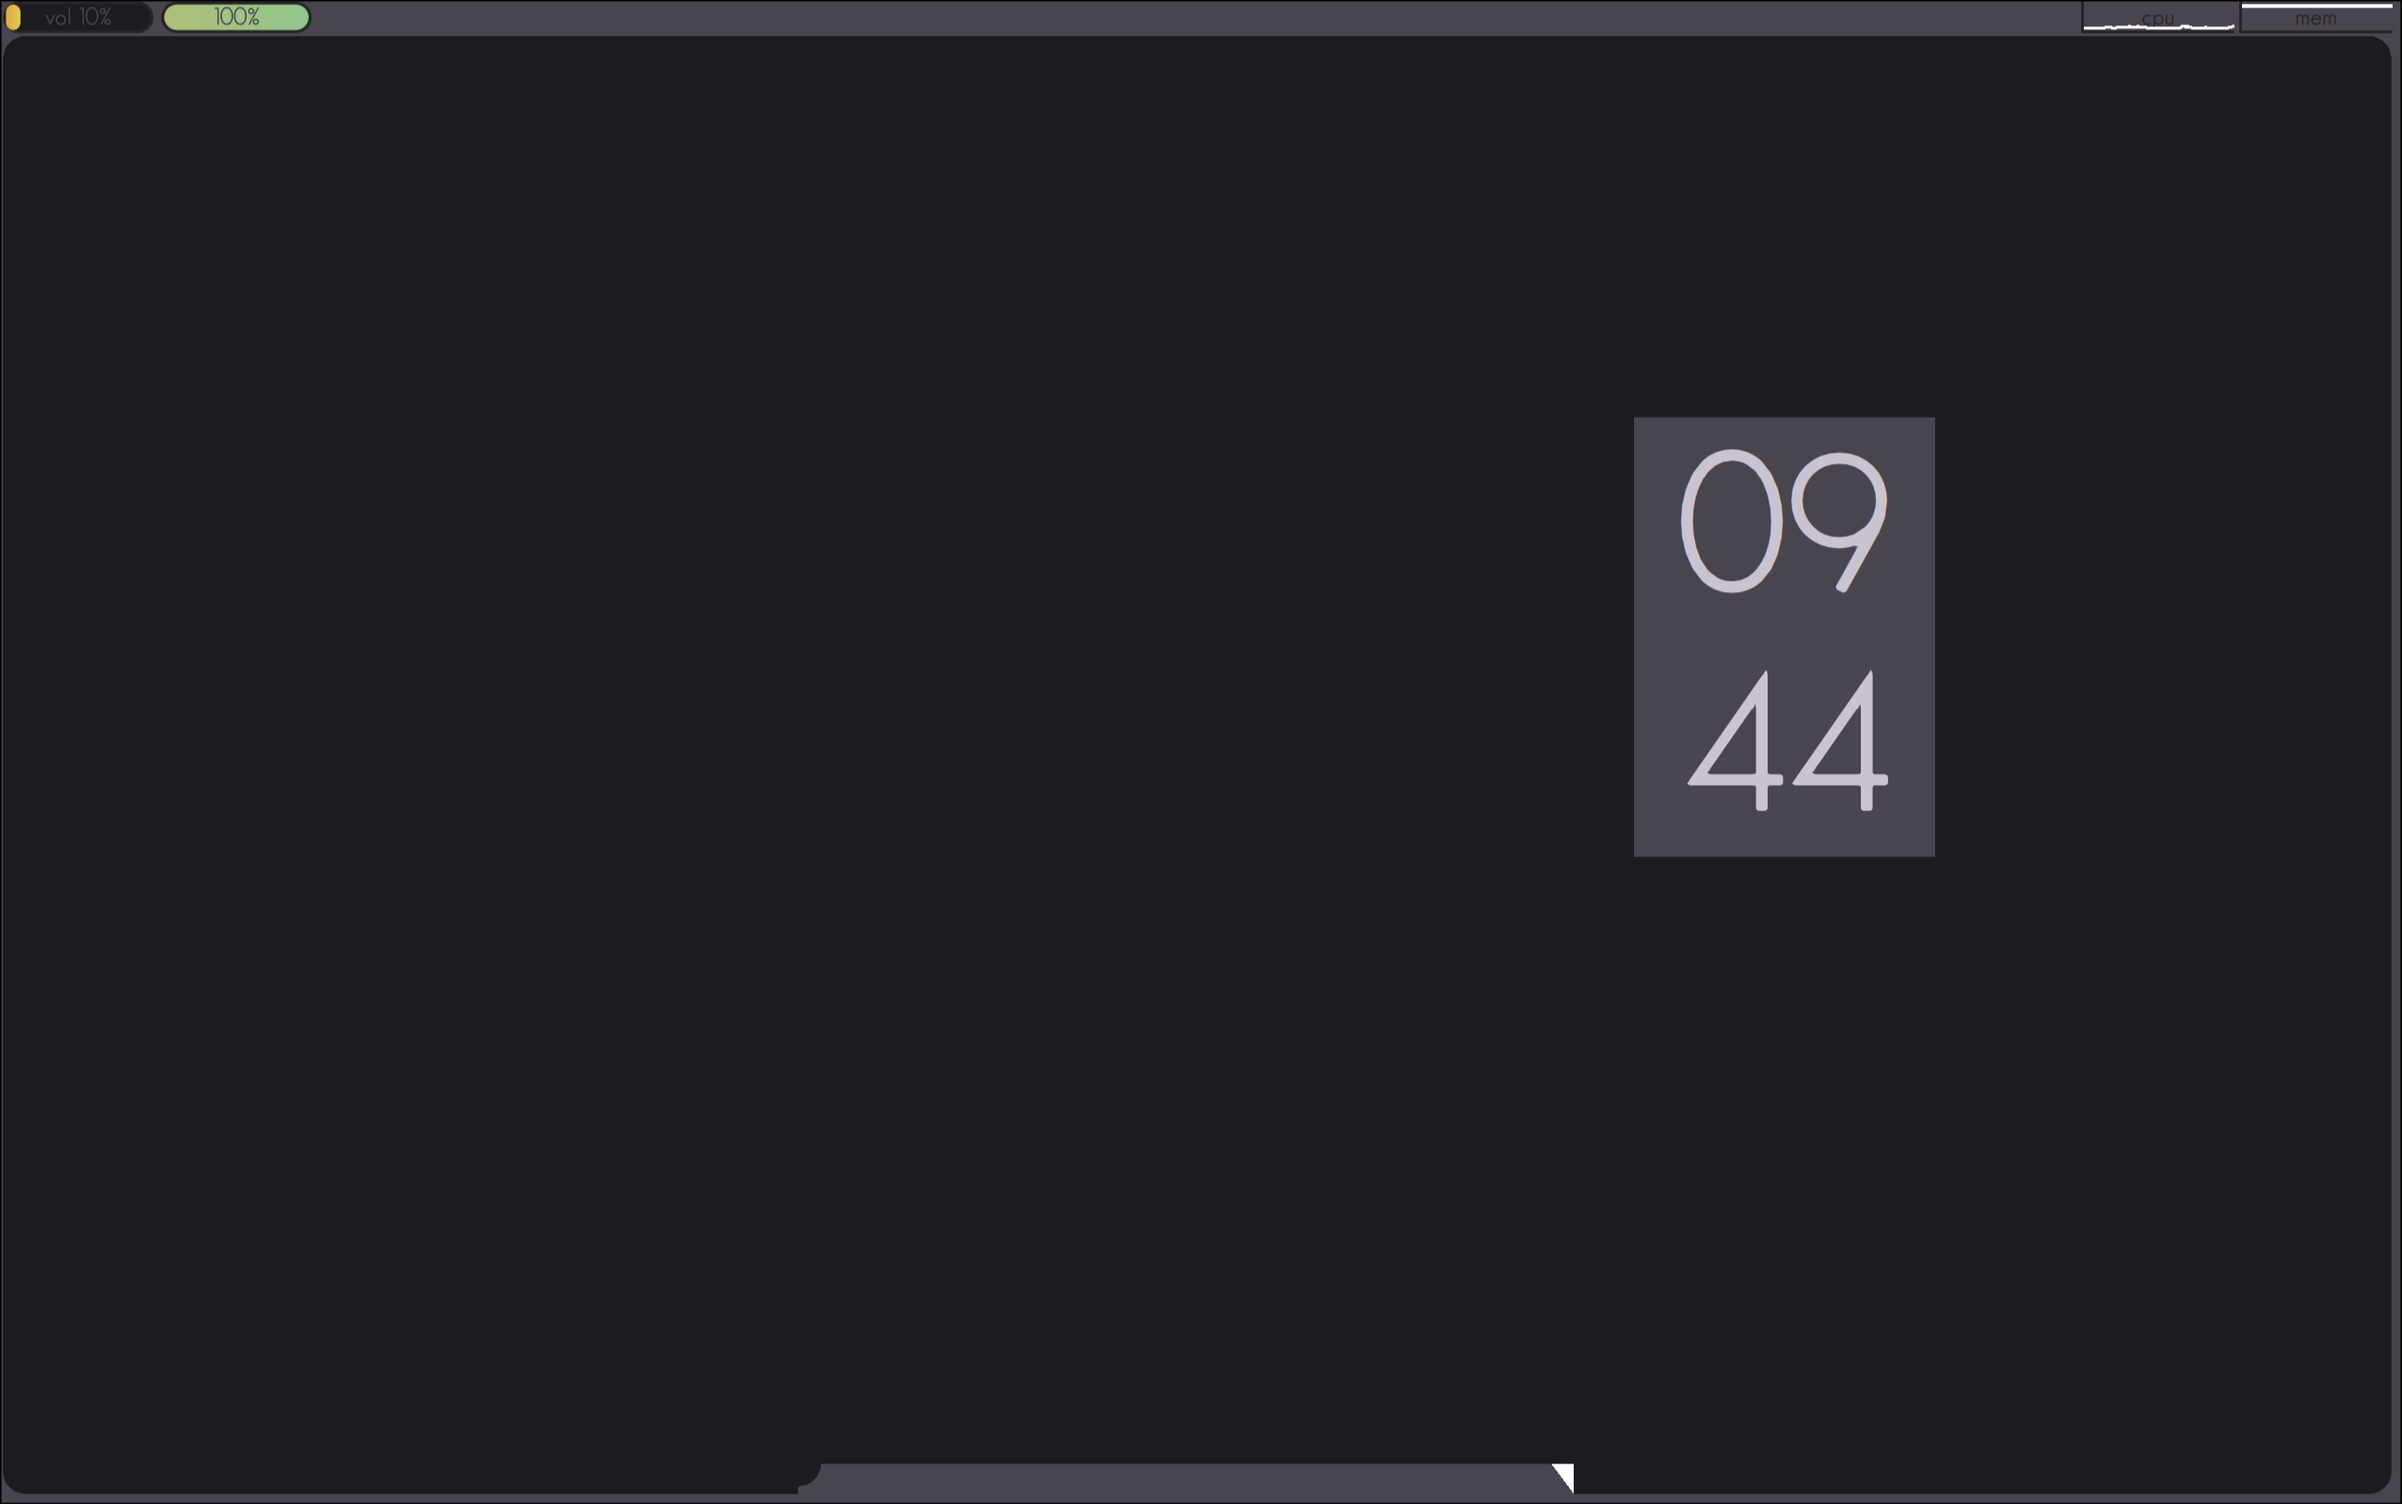
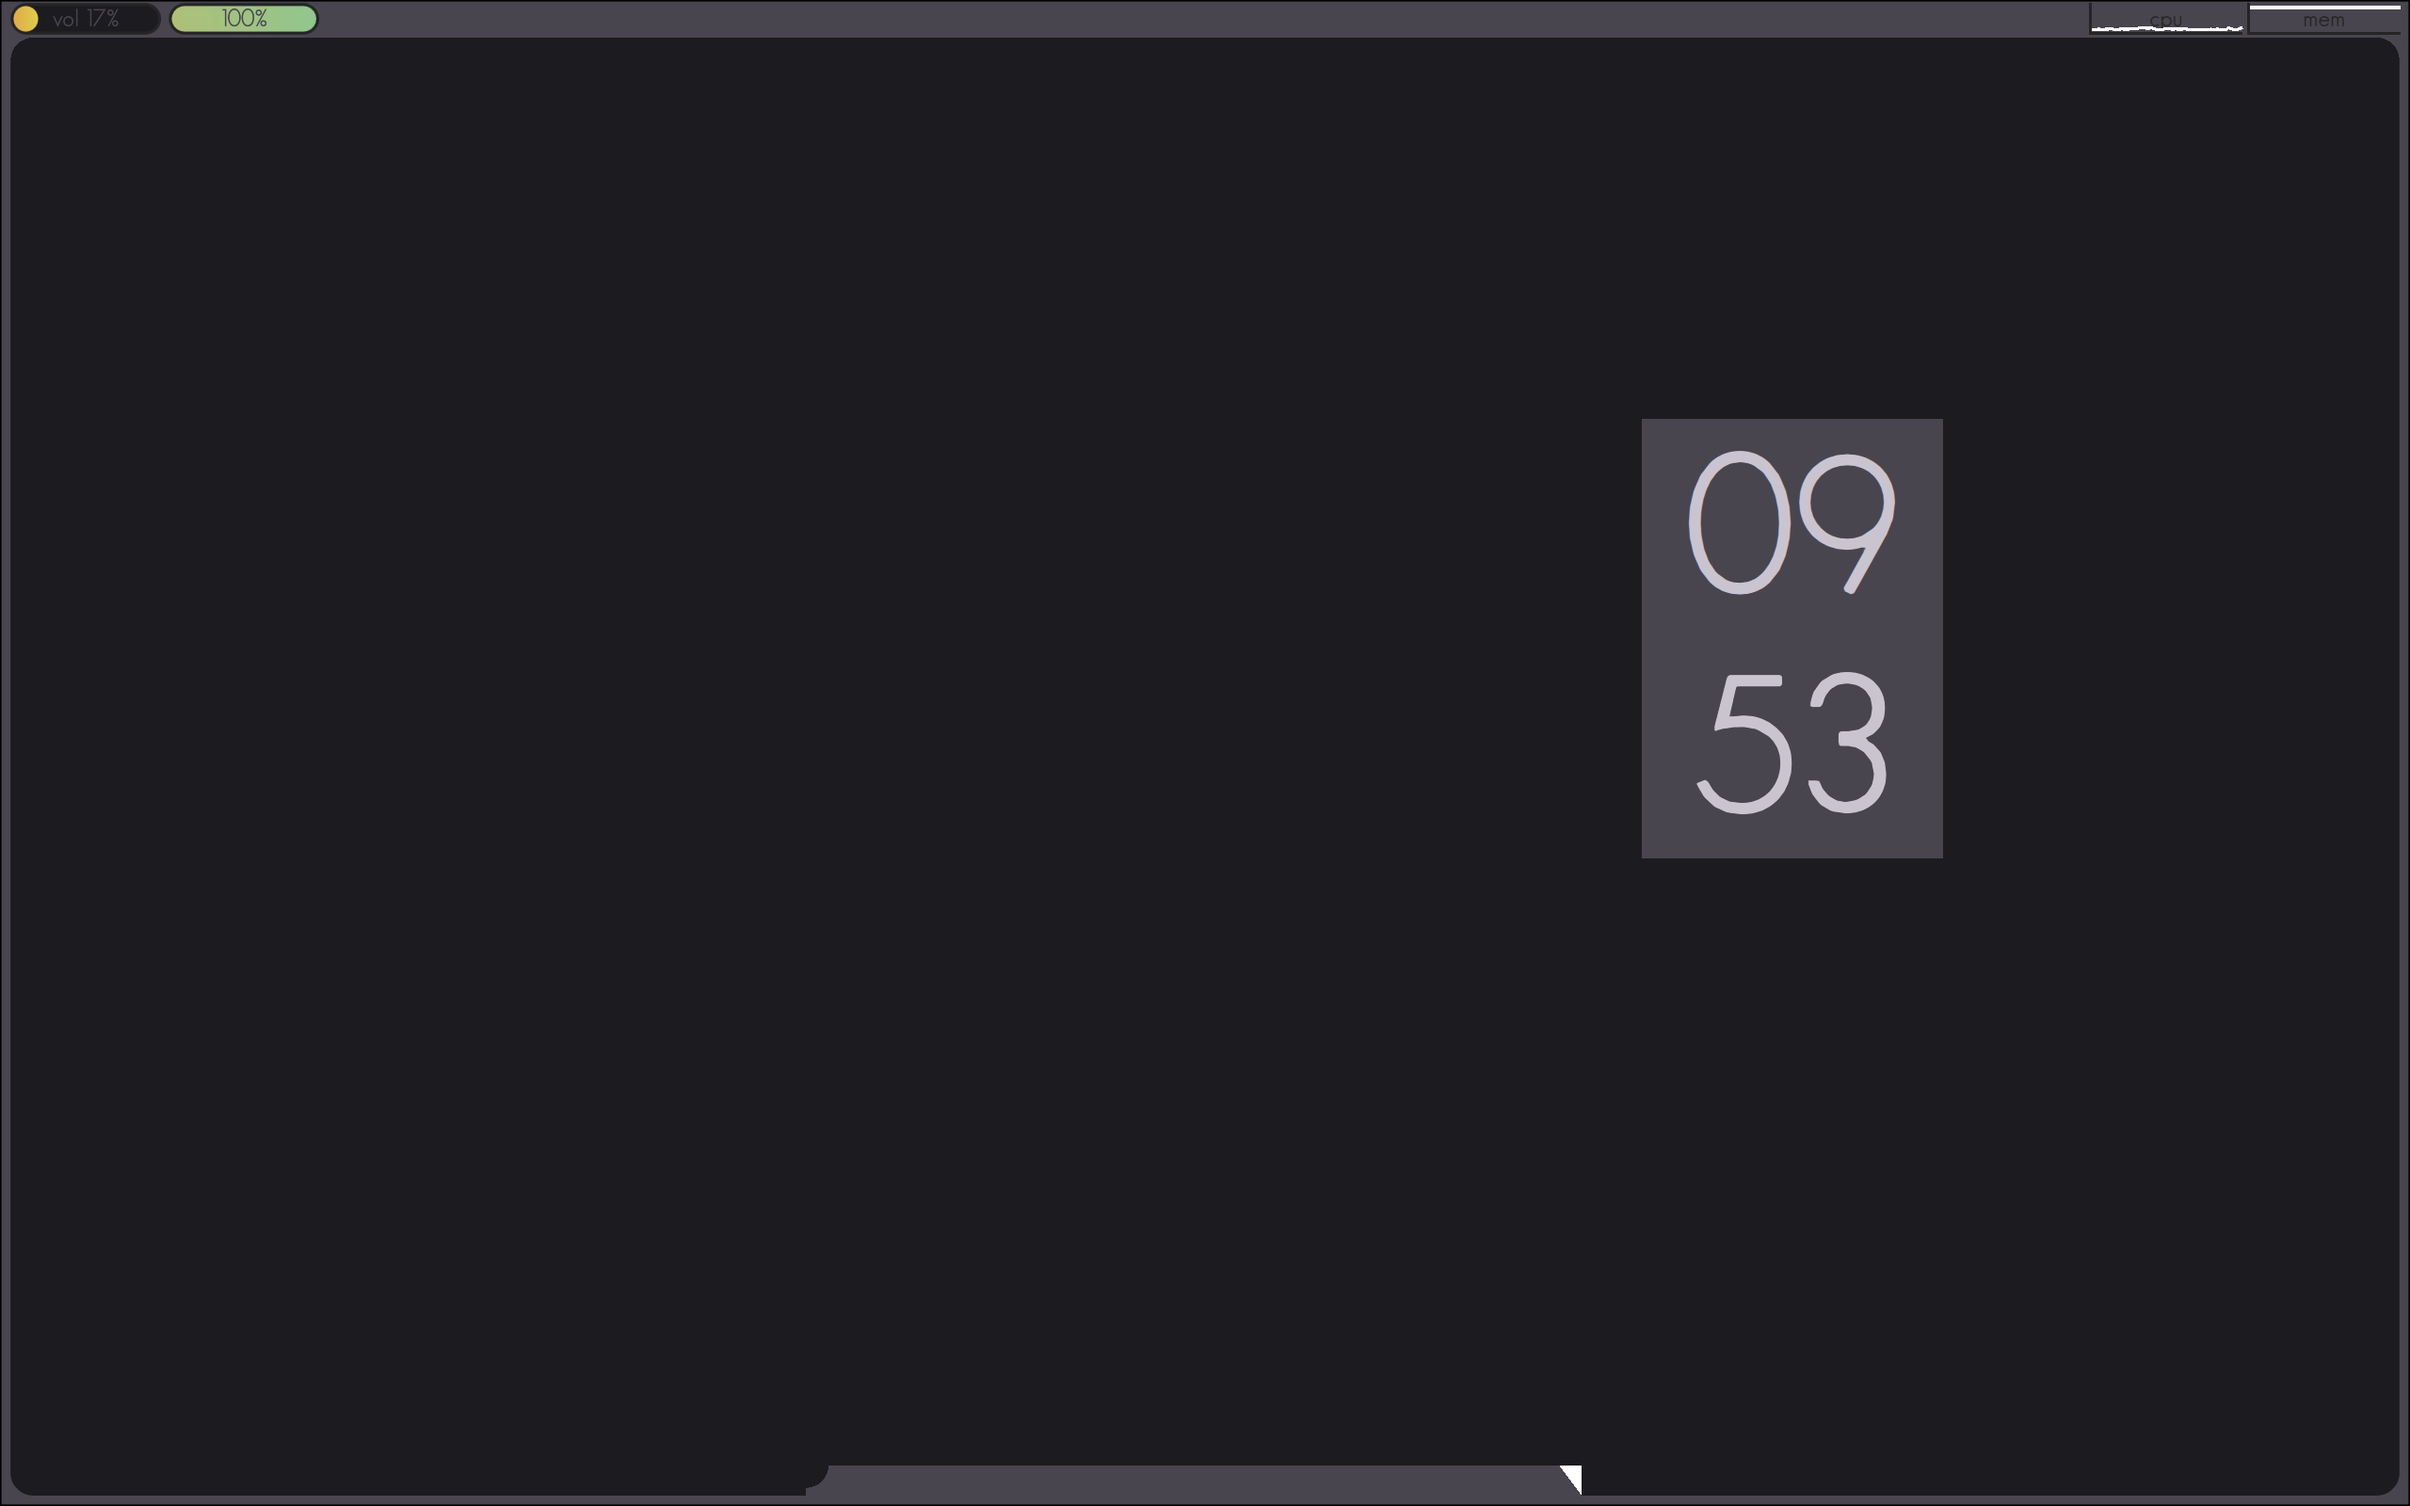
fix

diff --git a/README.md b/README.md
@@ -2,7 +2,7 @@
 
 a placeholder name.
 
-[![screenshot of a desktop. super exciting](assets/desktop.png)]
+![screenshot of a desktop. super exciting](assets/desktop.png)
 
 # About
 
